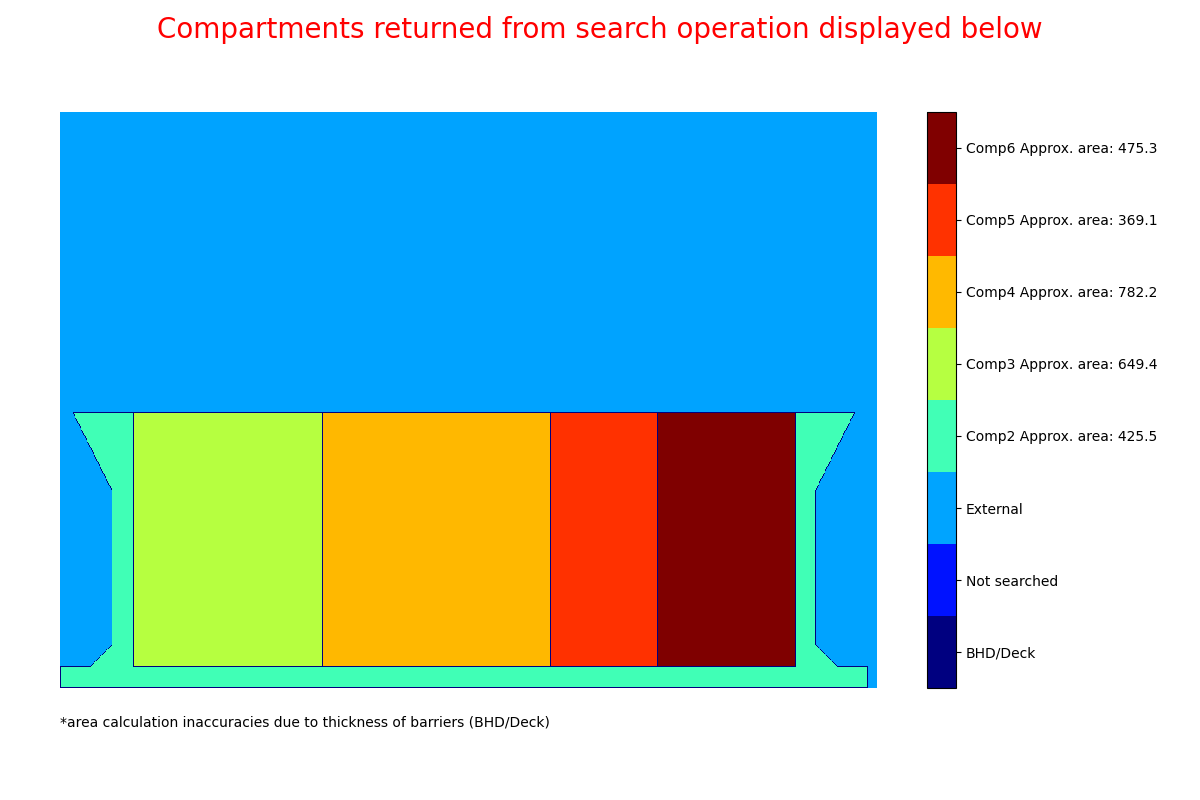
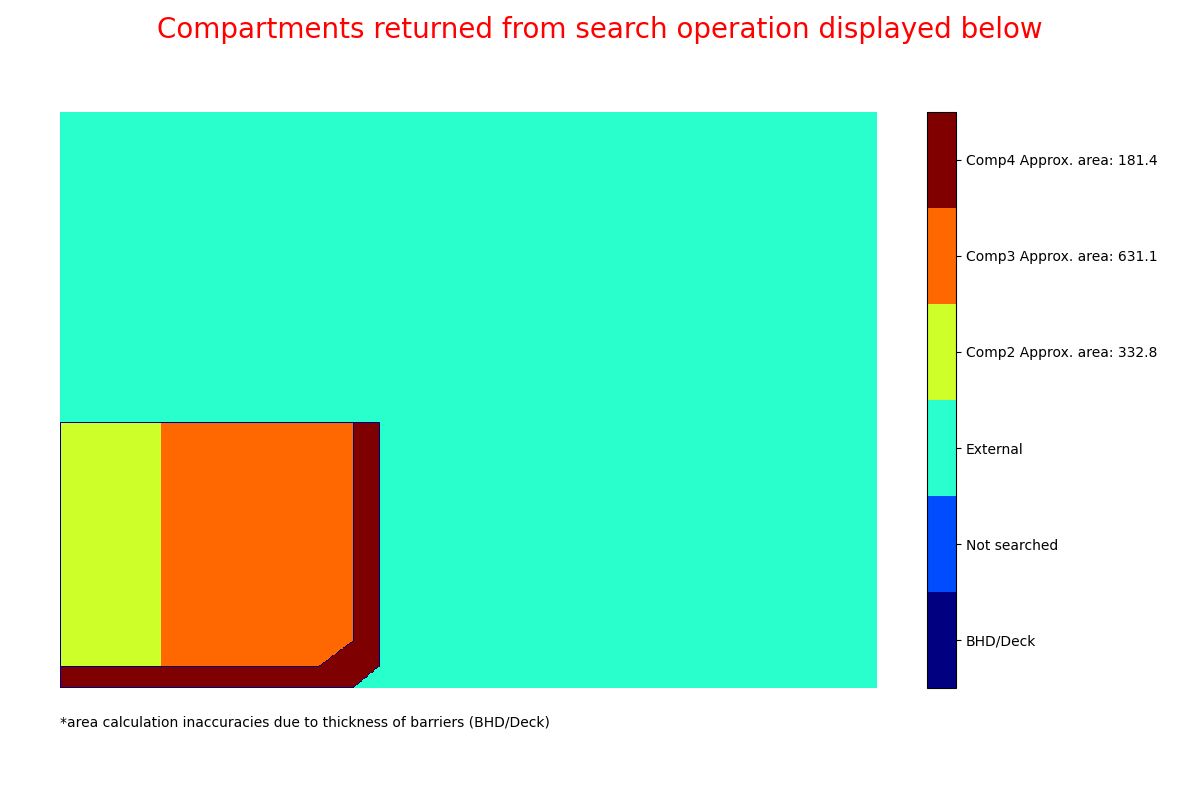
f

diff --git a/anystruct/report_generator.py b/anystruct/report_generator.py
@@ -829,111 +829,135 @@ class LetterMaker(object):
 
         table_all = []
         result_state = self.data.result_state
-        cylindersy, flat_plates, idx = False, False,-1
+
+        cylinders = False
+        flat_plates = False
+        idx = -1
+
         for line in sorted(self.data.lines.keys()):
+            if line not in self.data.line_bundles:
+                continue
+
             idx += 1
             line_bundle = self.data.line_bundles[line]
+
             if not line_structure.has_cylinder(line_bundle) and cylinders is False:
                 flat_plates = True
-                if idx == 0:
-                    headers = ['Line', 'pl thk', 's', 'web h', 'web thk', 'fl. w', 'fl. thk', 'sig x1', 'sig x2', 'sig y1',
-                               'sig y2', 'tau xy', 'max press.', 'sec. mod', 'min sec.', 'min plt',
-                               'shr area', 'min shr A', 'fat uf', 'buc uf']
+
+                if len(table_all) == 0:
+                    headers = [
+                        'Line', 'pl thk', 's', 'web h', 'web thk', 'fl. w', 'fl. thk',
+                        'sig x1', 'sig x2', 'sig y1', 'sig y2', 'tau xy',
+                        'max press.', 'sec. mod', 'min sec.', 'min plt',
+                        'shr area', 'min shr A', 'fat uf', 'buc uf'
+                    ]
                     table_all.append(headers)
-                if line not in list(self.data.line_bundles.keys()):
-                    continue
+
                 struc_obj = line_structure.structure(line_bundle)
-                pressure = round(self.data.highest_pressures[line]['normal'] / 1000,0)
+                pressure = round(self.data.highest_pressures[line]['normal'] / 1000, 0)
 
                 try:
                     buckling_uf = str(round(max(result_state['buckling'][line]), 2))
-                except TypeError:
+                except (TypeError, KeyError, ValueError):
                     buckling_uf = None
 
                 if result_state['fatigue'][line]['damage'] is not None:
-                    fat_uf = result_state['fatigue'][line]['damage']
-                    fat_uf = round(fat_uf, 3)
+                    fat_uf = round(result_state['fatigue'][line]['damage'], 3)
                 else:
                     fat_uf = result_state['fatigue'][line]['damage']
 
-
-                data = [line,str(struc_obj.Plate.get_pl_thk() * 1000), str(struc_obj.Plate.get_s() * 1000),
-                        str('' if struc_obj.Stiffener is None else struc_obj.Stiffener.get_web_h() * 1000),
-                        str('' if struc_obj.Stiffener is None else struc_obj.Stiffener.get_web_thk() * 1000),
-                        str('' if struc_obj.Stiffener is None else struc_obj.Stiffener.get_fl_w() * 1000),
-                        str('' if struc_obj.Stiffener is None else struc_obj.Stiffener.get_fl_thk() * 1000),
-                        str(round(struc_obj.Plate.sigma_x1, 0)), str(round(struc_obj.Plate.sigma_x2, 0)),
-                        str(round(struc_obj.Plate.sigma_y1, 0)),
-                        str(round(struc_obj.Plate.sigma_y2, 0)),
-                        str(round(struc_obj.Plate.tau_xy, 0)), str(round(pressure, 2) * 1000),
-                        str(int(min(result_state['section_modulus'][line]['sec_mod']) * 1000 ** 3)),
-                        str(int(result_state['section_modulus'][line]['min_sec_mod'] * 1000 ** 3)),
-                        str(round(result_state['thickness'][line]['min_thk'], 2)),
-                        str(int(result_state['shear_area'][line]['shear_area'] * 1000 ** 2)),
-                        str(int(result_state['shear_area'][line]['min_shear_area'] * 1000 ** 2)),
-                        fat_uf, buckling_uf]
+                data = [
+                    line,
+                    str(struc_obj.Plate.get_pl_thk() * 1000),
+                    str(struc_obj.Plate.get_s() * 1000),
+                    str('' if struc_obj.Stiffener is None else struc_obj.Stiffener.get_web_h() * 1000),
+                    str('' if struc_obj.Stiffener is None else struc_obj.Stiffener.get_web_thk() * 1000),
+                    str('' if struc_obj.Stiffener is None else struc_obj.Stiffener.get_fl_w() * 1000),
+                    str('' if struc_obj.Stiffener is None else struc_obj.Stiffener.get_fl_thk() * 1000),
+                    str(round(struc_obj.Plate.sigma_x1, 0)),
+                    str(round(struc_obj.Plate.sigma_x2, 0)),
+                    str(round(struc_obj.Plate.sigma_y1, 0)),
+                    str(round(struc_obj.Plate.sigma_y2, 0)),
+                    str(round(struc_obj.Plate.tau_xy, 0)),
+                    str(round(pressure, 2) * 1000),
+                    str(int(min(result_state['section_modulus'][line]['sec_mod']) * 1000 ** 3)),
+                    str(int(result_state['section_modulus'][line]['min_sec_mod'] * 1000 ** 3)),
+                    str(round(result_state['thickness'][line]['min_thk'], 2)),
+                    str(int(result_state['shear_area'][line]['shear_area'] * 1000 ** 2)),
+                    str(int(result_state['shear_area'][line]['min_shear_area'] * 1000 ** 2)),
+                    fat_uf,
+                    buckling_uf
+                ]
 
                 table_all.append(data)
 
             elif not flat_plates:
                 cylinders = True
-                if idx == 0:
-                    headers = ['Line', 'Radius', 'Thickness', 'Span', 'Tot. length',
-                               'Axial stress', 'Bend stress', 'Tors. stress', 'Shear stress', 'Lat. press.',
-                               'Hoop stress',
-                               'UF shell', 'UF long. stf.', 'UF ring. stf.', 'UF girder']
+
+                if len(table_all) == 0:
+                    headers = [
+                        'Line', 'Radius', 'Thickness', 'Span', 'Tot. length',
+                        'Axial stress', 'Bend stress', 'Tors. stress', 'Shear stress',
+                        'Lat. press.', 'Hoop stress',
+                        'UF shell', 'UF long. stf.', 'UF ring. stf.', 'UF girder'
+                    ]
                     table_all.append(headers)
+
                 cyl_obj = line_structure.cylinder(line_bundle)
+
                 radius = round(cyl_obj.ShellObj.radius * 1000, 2)
                 thickness = round(cyl_obj.ShellObj.thk * 1000, 2)
-                long_str = cyl_obj.LongStfObj.get_beam_string()
-                ring_stf = cyl_obj.LongStfObj.get_beam_string()
-                heavy_ring = cyl_obj.LongStfObj.get_beam_string()
                 span = round(cyl_obj.ShellObj.dist_between_rings, 1)
                 tot_length = round(cyl_obj.ShellObj.length_of_shell, 1)
-                tot_cyl = round(cyl_obj.ShellObj.tot_cyl_length, 1)
+
                 sigma_axial = cyl_obj.sasd / 1e6
                 sigma_bend = cyl_obj.smsd / 1e6
                 sigma_tors = cyl_obj.tTsd / 1e6
                 tau_xy = cyl_obj.tQsd / 1e6
                 lat_press = cyl_obj.psd / 1e6
                 sigma_hoop = cyl_obj.shsd / 1e6
-                results = cyl_obj.get_utilization_factors()
-                data = [line, radius, thickness, span, tot_length,
-                        sigma_axial,
-                        sigma_bend,
-                        sigma_tors,
-                        tau_xy,
-                        lat_press,
-                        sigma_hoop,
-                        round(0 if results['Unstiffened shell'] is None else results['Unstiffened shell'],2),
-                        round(0 if results['Longitudinal stiffened shell'] is None else results['Longitudinal stiffened shell'],2),
-                        round(0 if results['Ring stiffened shell'] is None else results['Ring stiffened shell'],2),
-                        round(0 if results['Heavy ring frame'] is None else results['Heavy ring frame'],2)
-                        ]
-                table_all.append([str(data_item) for data_item in data])
-        if cylinders:
-            t = Table(table_all,colWidths=[0.7*inch])
-            t.setStyle(TableStyle([
-                ('GRID', (0, 0), (-1, -1), 0.5, colors.gray),
-                ('BACKGROUND', (0, 0), (-1, -1), colors.lightblue),
-                ('FONTSIZE', (0, 0), (-1, -1), 8),
-                ('FONTSIZE', (0, 4), (-1, 4), 8),
-                ('TEXTFONT', (0, 1), (-1, 1), 'Times-Bold'),
-                ('TEXTFONT', (0, 4), (-1, 4), 'Times-Bold'),
-            ]))
-        else:
-            t = Table(table_all,colWidths=[0.55*inch])
-            t.setStyle(TableStyle([
-                ('GRID', (0, 0), (-1, -1), 0.5, colors.gray),
-                ('BACKGROUND', (0, 0), (-1, -1), colors.lightblue),
-                ('FONTSIZE', (0, 0), (-1, -1), 8),
-                ('FONTSIZE', (0, 4), (-1, 4), 8),
-                ('TEXTFONT', (0, 1), (-1, 1), 'Times-Bold'),
-                ('TEXTFONT', (0, 4), (-1, 4), 'Times-Bold'),
-            ]))
 
-        return [t,]
+                results = cyl_obj.get_utilization_factors()
+
+                data = [
+                    line,
+                    radius,
+                    thickness,
+                    span,
+                    tot_length,
+                    sigma_axial,
+                    sigma_bend,
+                    sigma_tors,
+                    tau_xy,
+                    lat_press,
+                    sigma_hoop,
+                    round(0 if results['Unstiffened shell'] is None else results['Unstiffened shell'], 2),
+                    round(0 if results['Longitudinal stiffened shell'] is None else results[
+                        'Longitudinal stiffened shell'], 2),
+                    round(0 if results['Ring stiffened shell'] is None else results['Ring stiffened shell'], 2),
+                    round(0 if results['Heavy ring frame'] is None else results['Heavy ring frame'], 2),
+                ]
+
+                table_all.append([str(data_item) for data_item in data])
+
+        if not table_all:
+            table_all = [['No reportable structural results found']]
+
+        if cylinders:
+            t = Table(table_all, colWidths=[0.7 * inch])
+        else:
+            t = Table(table_all, colWidths=[0.55 * inch])
+
+        t.setStyle(TableStyle([
+            ('GRID', (0, 0), (-1, -1), 0.5, colors.gray),
+            ('BACKGROUND', (0, 0), (-1, -1), colors.lightblue),
+            ('FONTSIZE', (0, 0), (-1, -1), 8),
+            ('FONTSIZE', (0, 4), (-1, 4), 8),
+            ('TEXTFONT', (0, 1), (-1, 1), 'Times-Bold'),
+            ('TEXTFONT', (0, 4), (-1, 4), 'Times-Bold'),
+        ]))
+
+        return [t]
 
 
 if __name__ == '__main__':